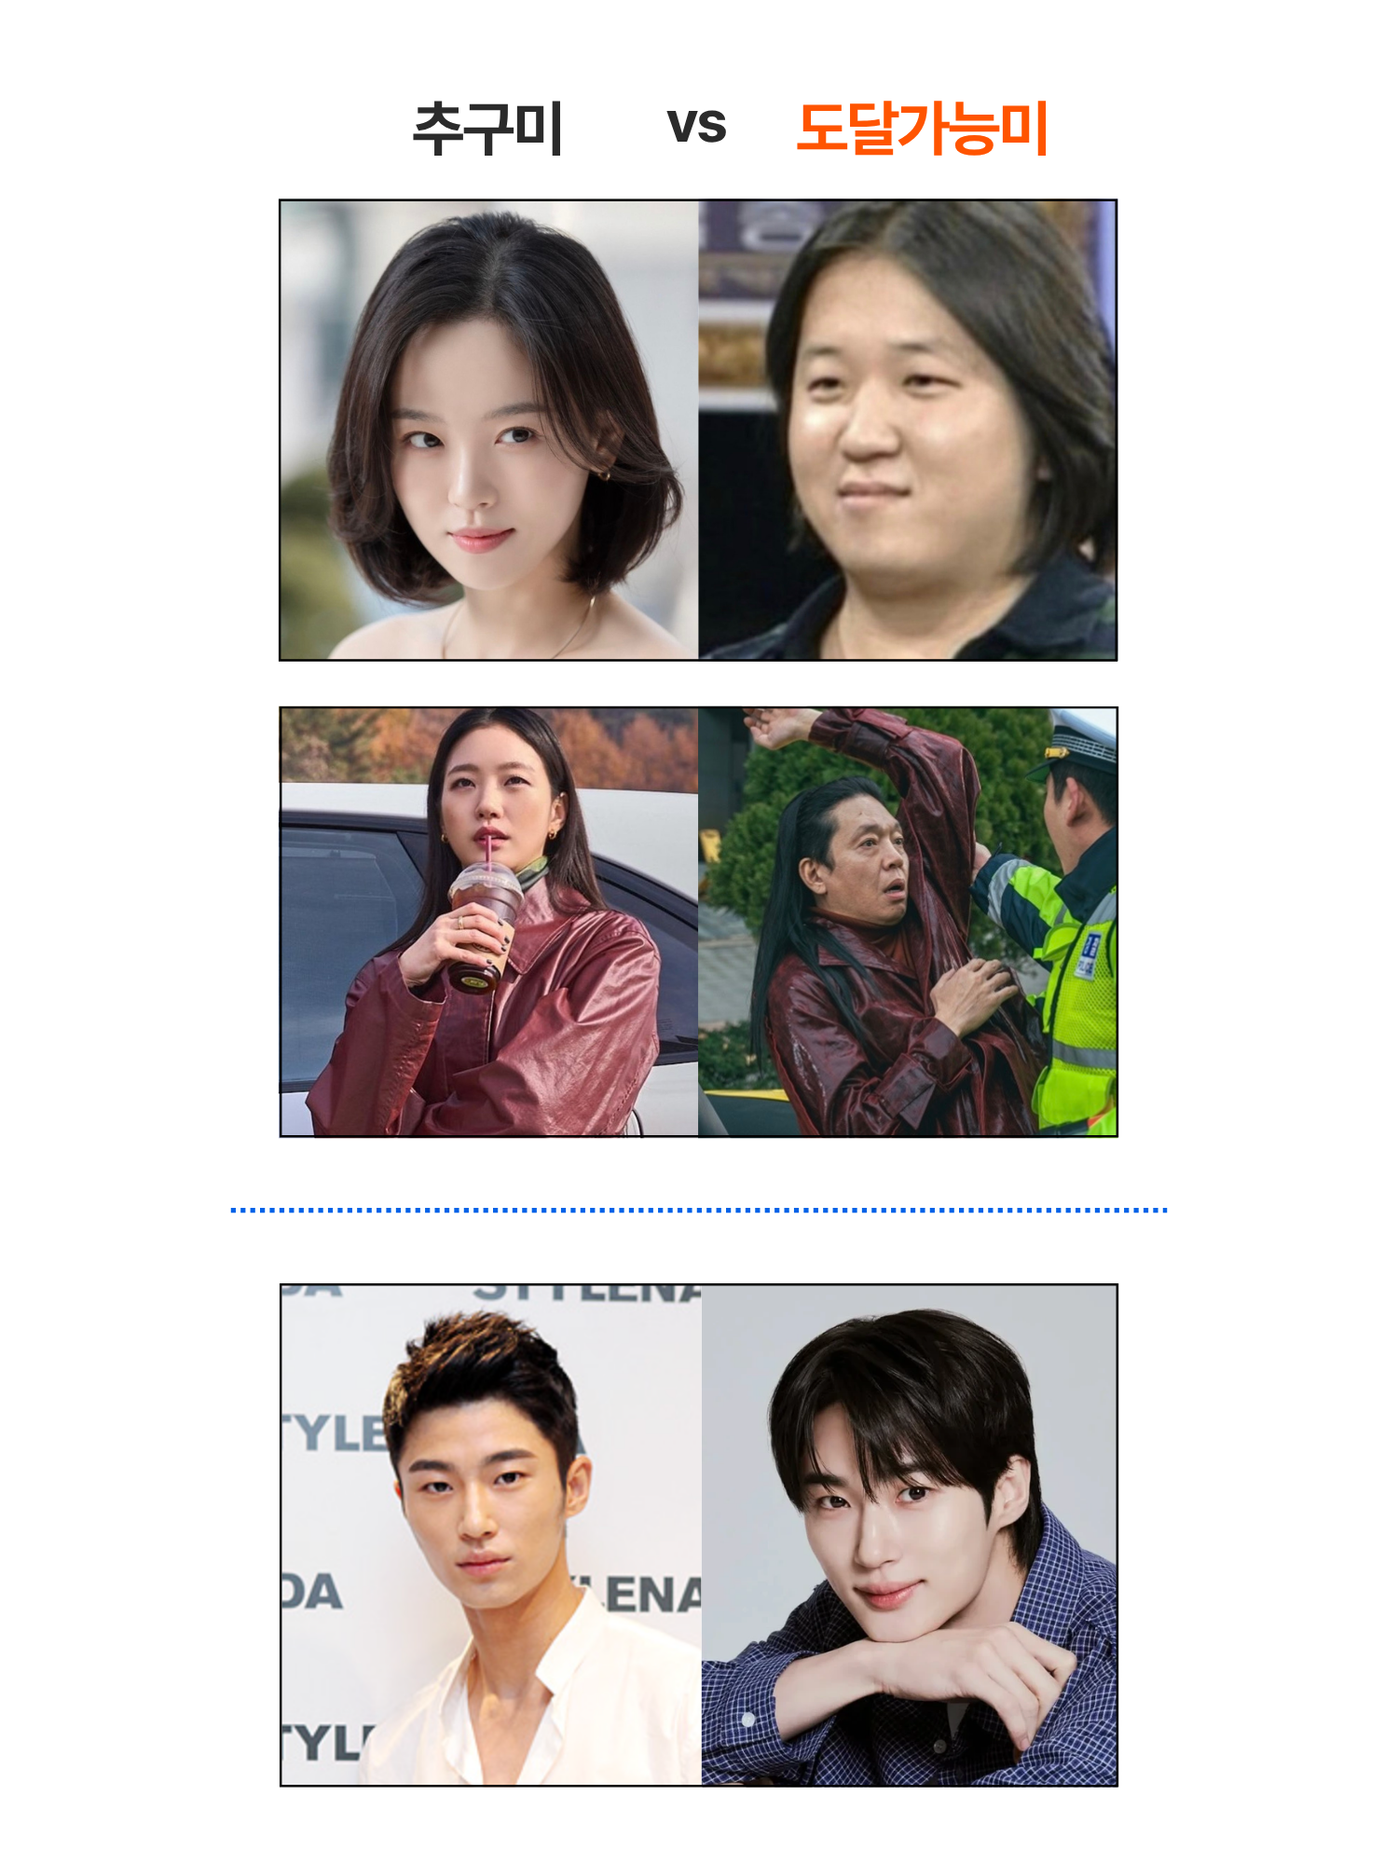
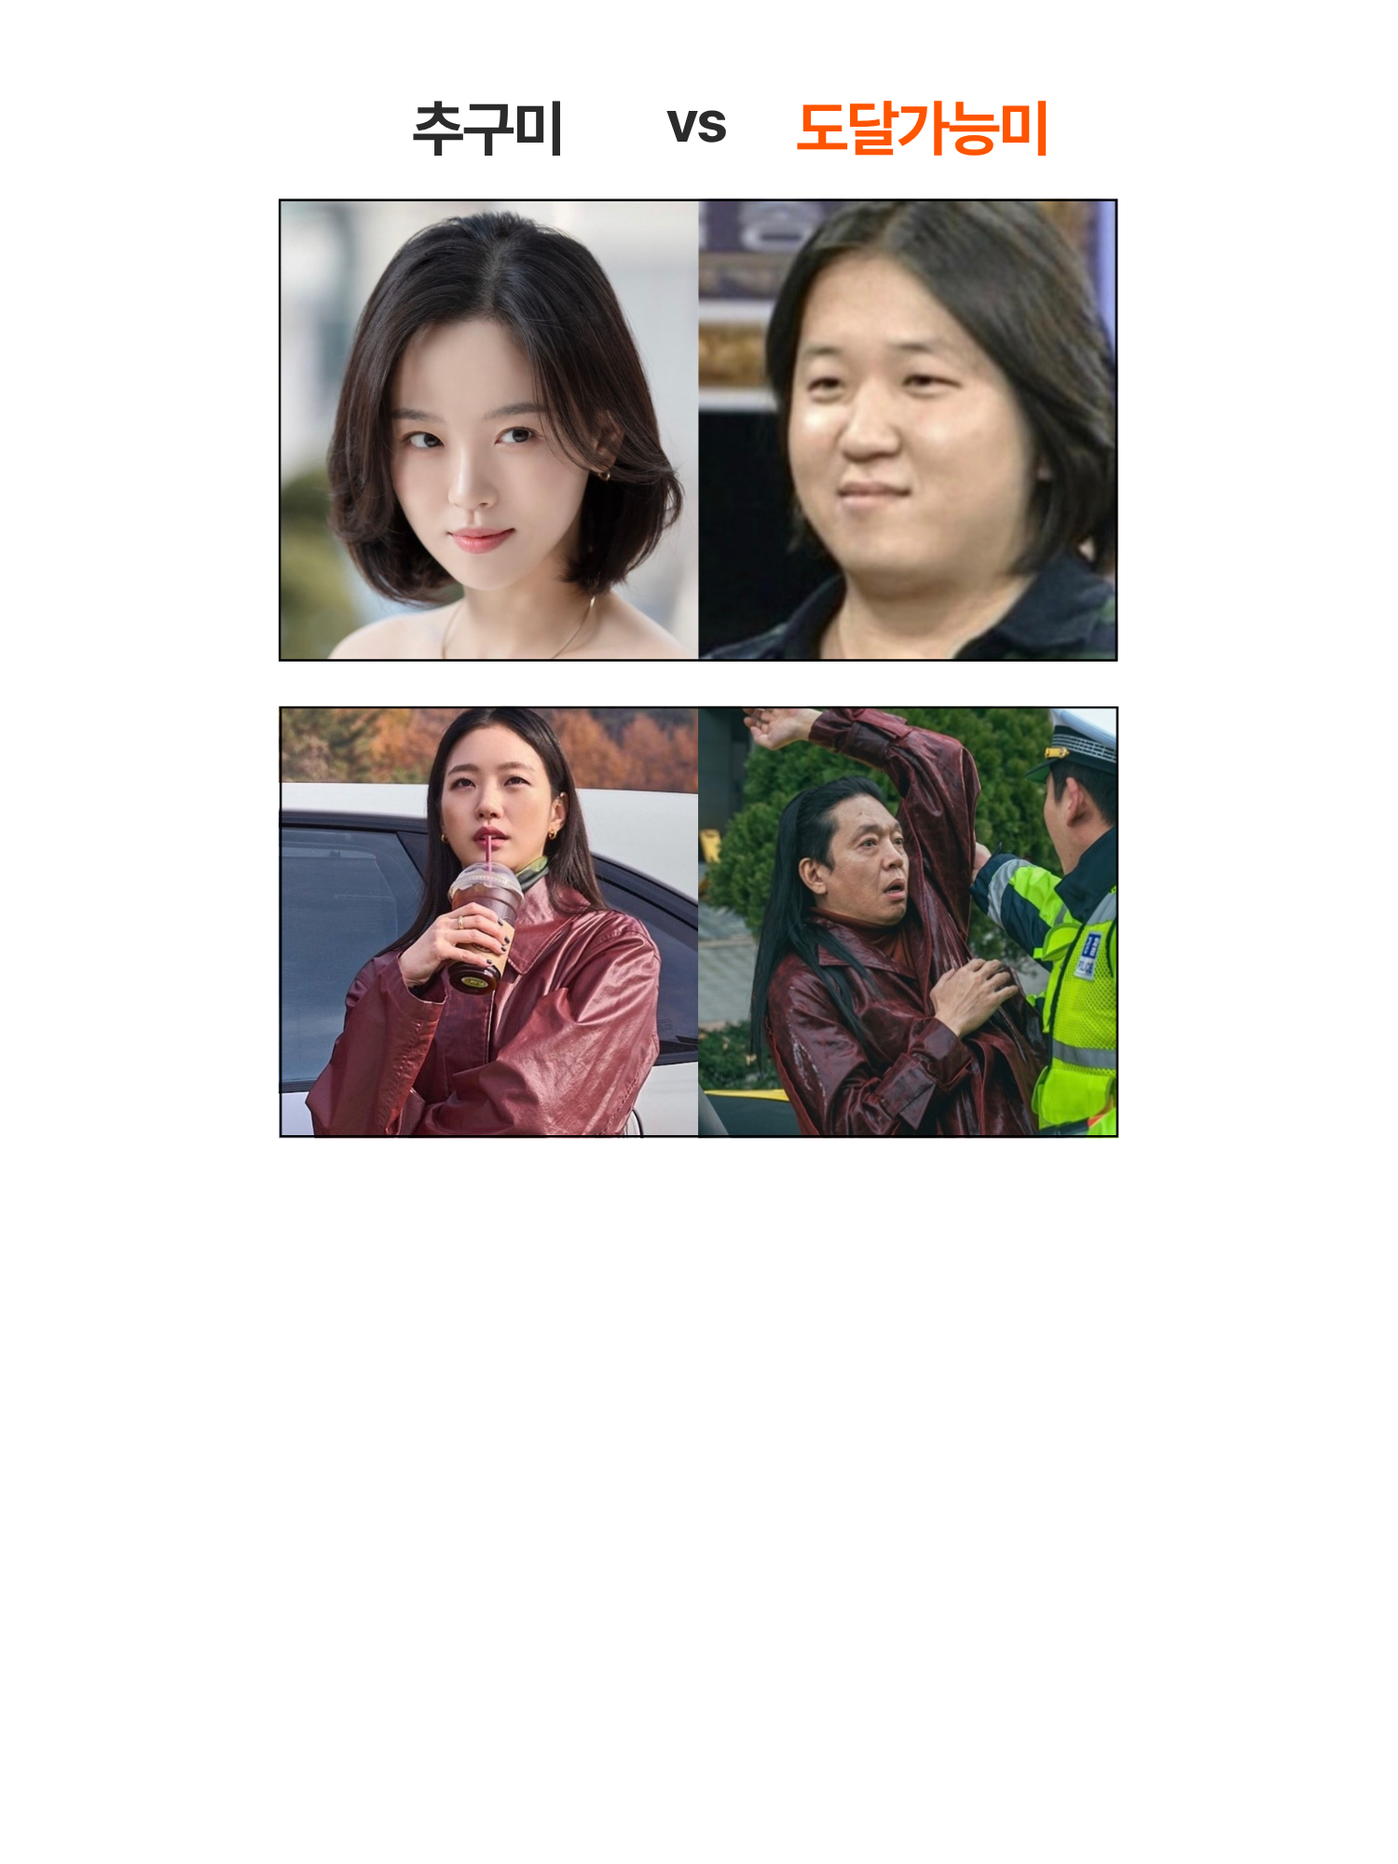
Add files via upload

Changed region(s): [[0.184, 0.682, 0.828, 0.961], [0.184, 0.837, 0.2453, 0.868], [0.184, 0.682, 0.2453, 0.713]]

diff --git a/event/index.html b/event/index.html
@@ -123,6 +123,16 @@
     .field > label{display:block;font-size:14px;font-weight:600;color:var(--ink-soft);margin-bottom:8px;}
     .req{color:var(--strike);font-weight:700;}
     .row{display:grid;grid-template-columns:1fr 1fr;gap:12px;}
+    .row--wide{grid-template-columns:1.7fr 1fr;}   /* 이름·연락처 넓게 / 나이·지역 좁게 */
+    /* 희망 시간대 칩 (중복 선택) */
+    .field .hint{font-size:12px;font-weight:500;color:var(--label);margin-left:4px;}
+    .chips{display:grid;grid-template-columns:repeat(4,1fr);gap:8px;}
+    .chip{position:relative;display:block;}
+    .chip input{position:absolute;inset:0;width:100%;height:100%;margin:0;opacity:0;cursor:pointer;}
+    .chip span{display:block;padding:12px 4px;text-align:center;font-size:15px;font-weight:600;
+      color:var(--ink);background:#fff;border:1.5px solid var(--line);border-radius:10px;
+      transition:background 120ms var(--ease),color 120ms var(--ease),border-color 120ms var(--ease);}
+    .chip input:checked + span{background:var(--ink);color:#fff;border-color:var(--ink);}
     input,select{
       width:100%;font-family:var(--font);font-size:16px;color:var(--ink);background:#fff;
       border:1.5px solid var(--line);border-radius:12px;padding:14px;
@@ -205,67 +215,50 @@
       <p class="form-sub">아래 정보를 남겨주시면 순서대로 연락드릴게요.</p>
 
       <form id="applyForm" novalidate>
-        <div class="field">
-          <label for="name">이름 <span class="req">*</span></label>
-          <input id="name" name="name" type="text" placeholder="이름" required autocomplete="name">
-        </div>
-
-        <div class="row">
+        <div class="row row--wide">
+          <div class="field">
+            <label for="name">이름 <span class="req">*</span></label>
+            <input id="name" name="name" type="text" placeholder="이름" required autocomplete="name">
+          </div>
           <div class="field">
             <label for="age">나이</label>
             <input id="age" name="age" type="number" inputmode="numeric" min="1" max="120" placeholder="나이">
           </div>
+        </div>
+
+        <div class="row row--wide">
           <div class="field">
-            <label for="gender">성별</label>
-            <select id="gender" name="gender">
-              <option value="" selected>선택</option>
-              <option value="female">여성</option>
-              <option value="male">남성</option>
-              <option value="none">선택 안 함</option>
-            </select>
+            <label for="phone">연락처 <span class="req">*</span></label>
+            <input id="phone" name="phone" type="tel" inputmode="tel" placeholder="010-0000-0000" required autocomplete="tel">
+          </div>
+          <div class="field">
+            <label for="region">지역 <span class="req">*</span></label>
+            <input id="region" name="region" type="text" placeholder="예) 강남역" required>
           </div>
         </div>
 
         <div class="field">
-          <label for="phone">연락처 <span class="req">*</span></label>
-          <input id="phone" name="phone" type="tel" inputmode="tel" placeholder="010-0000-0000" required autocomplete="tel">
-        </div>
-
-        <div class="field">
-          <label for="region">지역 <span class="req">*</span></label>
-          <input id="region" name="region" type="text" placeholder="예) 서울 강남" required>
-        </div>
-
-        <div class="field">
-          <label for="program">프로그램 <span class="req">*</span></label>
-          <select id="program" name="program" required>
-            <option value="" selected disabled>선택</option>
-            <option value="personal-color">퍼스널컬러</option>
-            <option value="body-type">골격진단</option>
-            <option value="undecided">상담 후 결정</option>
-          </select>
-        </div>
-
-        <div class="row">
-          <div class="field">
-            <label for="date">희망 일시 <span class="req">*</span></label>
-            <input id="date" name="date" type="date" required>
-          </div>
-          <div class="field">
-            <label for="time">희망 시간대</label>
-            <select id="time" name="time">
-              <option value="" selected>선택</option>
-              <option value="morning">오전</option>
-              <option value="afternoon">오후</option>
-              <option value="evening">저녁</option>
-            </select>
+          <label>희망 시간대 <span class="hint">(중복 선택 가능)</span></label>
+          <div class="chips">
+            <label class="chip"><input type="checkbox" name="time" value="11:00"><span>11:00</span></label>
+            <label class="chip"><input type="checkbox" name="time" value="12:00"><span>12:00</span></label>
+            <label class="chip"><input type="checkbox" name="time" value="13:00"><span>13:00</span></label>
+            <label class="chip"><input type="checkbox" name="time" value="14:00"><span>14:00</span></label>
+            <label class="chip"><input type="checkbox" name="time" value="15:00"><span>15:00</span></label>
+            <label class="chip"><input type="checkbox" name="time" value="16:00"><span>16:00</span></label>
+            <label class="chip"><input type="checkbox" name="time" value="17:00"><span>17:00</span></label>
+            <label class="chip"><input type="checkbox" name="time" value="18:00"><span>18:00</span></label>
+            <label class="chip"><input type="checkbox" name="time" value="19:00"><span>19:00</span></label>
+            <label class="chip"><input type="checkbox" name="time" value="20:00"><span>20:00</span></label>
+            <label class="chip"><input type="checkbox" name="time" value="21:00"><span>21:00</span></label>
+            <label class="chip"><input type="checkbox" name="time" value="22:00"><span>22:00</span></label>
           </div>
         </div>
 
         <label class="consent">
           <input type="checkbox" id="consent" name="consent" required>
           <span>개인정보 수집·이용에 동의합니다. (필수)<br>
-          수집 항목: 이름·나이·연락처·지역·성별·프로그램·희망 일시 / 목적: 이벤트 진행 및 예약 안내 / 보유: 이벤트 종료 후 파기</span>
+          이벤트 예약 안내에만 사용하며, 종료 후 파기합니다.</span>
         </label>
 
         <button class="submit" type="submit" id="submitBtn" disabled>신청 완료하기</button>
@@ -307,7 +300,9 @@
       e.preventDefault();
       if (!form.checkValidity()) { form.reportValidity(); return; }
 
-      const payload = Object.fromEntries(new FormData(form).entries());
+      const fd = new FormData(form);
+      const payload = Object.fromEntries(fd.entries());
+      payload.time = fd.getAll('time');                 // 희망 시간대(중복 선택) 배열로
       submitBtn.disabled = true;
       submitBtn.textContent = '신청 중…';
 

diff --git a/find/index.html b/find/index.html
@@ -23,7 +23,8 @@
     user-select:none;-webkit-user-select:none;
   }
   img{display:block;max-width:100%;}
-  .wrap{max-width:560px;margin:0 auto;padding:24px 22px 40px;position:relative;}
+  .wrap{max-width:820px;margin:0 auto;padding:20px 24px 20px;position:relative;
+    height:100dvh;display:flex;flex-direction:column;overflow:hidden;}
 
   /* 돌아가기 */
   .back{display:inline-flex;align-items:center;justify-content:center;width:44px;height:44px;
@@ -31,11 +32,11 @@
   .back:hover{background:rgba(0,0,0,.05);}
 
   /* 타이틀 (best 만 오렌지) */
-  .headline{font-size:40px;line-height:1.08;font-weight:800;letter-spacing:-1px;margin:2px 0 26px;}
+  .headline{font-size:40px;line-height:1.08;font-weight:800;letter-spacing:-1px;margin:2px 0 18px;}
   .headline .best{color:var(--orange);}
 
   /* 탭 (여성 / 남성) */
-  .tabs{display:grid;grid-template-columns:1fr 1fr;gap:14px;margin-bottom:26px;}
+  .tabs{display:grid;grid-template-columns:1fr 1fr;gap:14px;margin-bottom:18px;flex:none;}
   .tab{
     padding:15px 0;border:1.5px solid var(--ink);background:#fff;border-radius:6px;
     font-family:var(--font);font-size:19px;font-weight:700;color:var(--ink);cursor:pointer;
@@ -43,21 +44,12 @@
   }
   .tab.active{background:var(--tab-active);color:#fff;border-color:var(--tab-active);}
 
-  /* 그리드 3×2 */
-  .grid{display:grid;grid-template-columns:repeat(3,1fr);gap:14px;}
-  .cell{cursor:zoom-in;border:1.5px solid var(--line);border-radius:2px;overflow:hidden;background:#fff;
-    aspect-ratio:3/4;transition:transform .14s var(--ease);}
+  /* 그리드 3×2 — 남은 세로 공간을 꽉 채워 칸을 크고 길게 */
+  .grid{flex:1 1 auto;min-height:0;display:grid;grid-template-columns:repeat(3,1fr);grid-template-rows:repeat(2,1fr);gap:16px;}
+  .cell{cursor:zoom-in;border:1.5px solid var(--line);border-radius:4px;overflow:hidden;background:#fff;
+    min-height:0;transition:transform .14s var(--ease);}
   .cell:active{transform:scale(.97);}
   .cell img{width:100%;height:100%;object-fit:cover;object-position:top center;-webkit-user-drag:none;user-drag:none;pointer-events:none;}
-
-  /* 옆으로 밀어서 넘기기 힌트 */
-  .swipe-hint{
-    margin-top:30px;text-align:center;color:var(--muted);
-    font-size:15px;font-weight:600;letter-spacing:.02em;
-    animation:hintPulse 2.2s var(--ease) infinite;
-  }
-  @keyframes hintPulse{0%,100%{opacity:.55;}50%{opacity:1;}}
-  @media (prefers-reduced-motion:reduce){.swipe-hint{animation:none;}}
 
   /* ===== 확대 뷰어 (레퍼런스 형식 · 색감만 변경) ===== */
   .zoom{position:fixed;inset:0;background:rgba(17,17,17,.95);display:none;z-index:70;touch-action:none;}
@@ -93,8 +85,6 @@
     </div>
 
     <div class="grid" id="grid"></div>
-
-    <div class="swipe-hint" aria-hidden="true">← &nbsp;옆으로 밀어서 넘기기&nbsp; →</div>
   </div>
 
   <!-- 확대 오버레이 -->
@@ -197,31 +187,18 @@ document.querySelectorAll('.tab').forEach(t=>{
 });
 renderGrid();
 
-/* ===== 페이지 스와이프: 옆으로 밀어서 넘기기 (마우스 드래그 + 터치, 확대 뷰어 열림 시 무시) ===== */
+/* ===== 양옆 터치로 넘기기 (첫 페이지처럼) — 코디칸/탭/확대뷰어는 각자 동작 ===== */
 (function(){
   const zoom=document.getElementById('zoom');
   const FWD='../compare/', BACK='../?mode=kiosk';
-  const zoomOpen=()=>zoom.classList.contains('show');
-  let sx=0,sy=0,st=0,tracking=false;
-
-  /* Pointer Events = 마우스/터치/펜 통합 → 데스크톱 프리뷰에서도 드래그로 넘김 */
-  window.addEventListener('pointerdown',e=>{
-    if(zoomOpen()){tracking=false;return;}
-    sx=e.clientX; sy=e.clientY; st=Date.now(); tracking=true;
+  window.addEventListener('click',e=>{
+    if(zoom.classList.contains('show')) return;        /* 확대 중엔 무시 */
+    if(e.target.closest('.cell,.tab,.back')) return;   /* 코디칸=확대 / 탭=성별전환 / 뒤로가기=각자 동작 */
+    location.href = (e.clientX < window.innerWidth*0.26) ? BACK : FWD;  /* 좌 26% 이전 / 우 74% 다음 */
   });
-  window.addEventListener('pointerup',e=>{
-    if(!tracking||zoomOpen()){tracking=false;return;}
-    tracking=false;
-    const dx=e.clientX-sx, dy=e.clientY-sy, dt=Date.now()-st;
-    if(Math.abs(dx)>55 && Math.abs(dx)>Math.abs(dy)*1.3 && dt<1500){
-      location.href = dx<0 ? FWD : BACK;   /* 왼쪽으로 밀기 → 다음 / 오른쪽 → 이전 */
-    }
-  });
-
-  /* 운영자 리모컨/키보드 */
   window.addEventListener('keydown',e=>{
-    if(zoomOpen()) return;               /* 확대 중엔 뷰어가 좌우키 처리 */
-    if(e.key==='ArrowRight') location.href=FWD;
+    if(zoom.classList.contains('show')) return;
+    if(e.key==='ArrowRight'||e.key===' ') location.href=FWD;
     else if(e.key==='ArrowLeft') location.href=BACK;
   });
 })();

diff --git a/compare/index.html b/compare/index.html
@@ -6,6 +6,7 @@
 <title>추구미 vs 도달가능미</title>
 <link rel="stylesheet" href="https://cdn.jsdelivr.net/gh/orioncactus/pretendard@v1.3.9/dist/web/static/pretendard.css">
 <style>
+  :root{ --ease:cubic-bezier(.4,0,.2,1); }
   *{box-sizing:border-box;-webkit-tap-highlight-color:transparent;}
   html,body{margin:0;padding:0;height:100%;}
   body{
@@ -14,24 +15,69 @@
     user-select:none;-webkit-user-select:none;
     min-height:100dvh;display:flex;align-items:center;justify-content:center;overflow:hidden;
   }
-  /* 스토리 페이지와 동일: 3:4 이미지를 화면에 꽉 채워 중앙 배치 (레터박스는 흰 배경과 블렌드) */
+  /* 스토리와 동일: 3:4 이미지를 화면에 꽉 채워 중앙 배치 */
   .compare{
     width:min(100vw, calc(100dvh * 3 / 4));
     height:auto;display:block;-webkit-user-drag:none;user-drag:none;
   }
+
+  /* 탭 영역: 좌 25% 이전 · 가운데 50% 변우석 팝업 · 우 25% 다음 */
+  .zone{position:fixed;top:0;bottom:0;z-index:10;border:none;background:transparent;padding:0;margin:0;cursor:pointer;}
+  .zone-prev{left:0;width:25%;}
+  .zone-center{left:25%;width:50%;}
+  .zone-next{right:0;width:25%;}
+
+  /* 가운데 클릭 시 뜨는 변우석 팝업 */
+  .pop{
+    position:fixed;inset:0;z-index:50;display:none;
+    align-items:center;justify-content:center;padding:24px;
+    background:rgba(17,17,17,.72);cursor:pointer;
+  }
+  .pop.show{display:flex;}
+  .pop-img{
+    max-width:94vw;max-height:82dvh;width:auto;height:auto;
+    border-radius:12px;background:#fff;box-shadow:0 24px 70px rgba(0,0,0,.45);
+    -webkit-user-drag:none;user-drag:none;
+  }
+  .pop.show .pop-img{animation:popIn .22s var(--ease);}
+  @keyframes popIn{from{transform:scale(.9);opacity:0;}to{transform:scale(1);opacity:1;}}
+  .pop-close{
+    position:absolute;top:16px;right:18px;width:46px;height:46px;border-radius:50%;
+    border:none;background:rgba(255,255,255,.2);color:#fff;font-size:22px;cursor:pointer;
+    display:grid;place-items:center;
+  }
+  @media (prefers-reduced-motion:reduce){.pop.show .pop-img{animation:none;}}
 </style>
 </head>
 <body>
   <img class="compare" src="img/compare.png" alt="추구미 vs 도달가능미">
 
+  <!-- 탭 영역 -->
+  <button class="zone zone-prev" type="button" aria-label="이전"></button>
+  <button class="zone zone-center" type="button" aria-label="변우석 비교 보기"></button>
+  <button class="zone zone-next" type="button" aria-label="다음"></button>
+
+  <!-- 변우석 비교사진 팝업 -->
+  <div class="pop" id="pop" aria-hidden="true">
+    <button class="pop-close" type="button" aria-label="닫기">✕</button>
+    <img class="pop-img" src="img/byeon.png" alt="변우석 비교사진">
+  </div>
+
 <script>
-/* 옆을 터치(탭)하면 넘어감 — 좌 26% 이전 / 우 74% 다음 (스토리와 동일) */
 (function(){
   const PREV='../find/', NEXT='../mood/';
-  window.addEventListener('click',e=>{
-    location.href = (e.clientX < window.innerWidth*0.26) ? PREV : NEXT;
-  });
+  const pop=document.getElementById('pop');
+  const open=()=>pop.classList.add('show');
+  const close=()=>pop.classList.remove('show');
+
+  document.querySelector('.zone-prev').addEventListener('click',()=>location.href=PREV);
+  document.querySelector('.zone-next').addEventListener('click',()=>location.href=NEXT);
+  document.querySelector('.zone-center').addEventListener('click',open);   /* 가운데 = 변우석 팝업 */
+  pop.addEventListener('click',close);                                     /* 팝업 아무 곳이나 탭 = 닫기 */
+
   window.addEventListener('keydown',e=>{
+    if(e.key==='Escape'){ close(); return; }
+    if(pop.classList.contains('show')) return;
     if(e.key==='ArrowRight'||e.key===' ') location.href=NEXT;
     else if(e.key==='ArrowLeft') location.href=PREV;
   });

diff --git a/mood/index.html b/mood/index.html
@@ -7,32 +7,37 @@
 <link rel="stylesheet" href="https://cdn.jsdelivr.net/gh/orioncactus/pretendard@v1.3.9/dist/web/static/pretendard.css">
 <style>
   *{box-sizing:border-box;-webkit-tap-highlight-color:transparent;}
-  html,body{margin:0;padding:0;height:100%;}
+  html,body{margin:0;padding:0;}
   body{
-    font-family:'Pretendard','Apple SD Gothic Neo',sans-serif;background:#f3f3f4;
-    -webkit-font-smoothing:antialiased;overscroll-behavior:none;
+    font-family:'Pretendard','Apple SD Gothic Neo',sans-serif;background:#f6f6f6;
+    -webkit-font-smoothing:antialiased;
     user-select:none;-webkit-user-select:none;
-    min-height:100dvh;display:flex;align-items:center;justify-content:center;overflow:hidden;
+    overscroll-behavior-y:none;                 /* 위/아래 바운스 방지 */
   }
-  /* 스토리 페이지와 동일: 3:4 이미지를 화면에 꽉 채워 중앙 배치 (레터박스는 배경과 블렌드) */
-  .full{
-    width:min(100vw, calc(100dvh * 3 / 4));
-    height:auto;display:block;-webkit-user-drag:none;user-drag:none;
-  }
+  /* 13 · 14 를 크게 세로로 쌓기 (축소 없이, 넘치면 스크롤) */
+  .stack{max-width:900px;margin:0 auto;}
+  .stack img{display:block;width:100%;height:auto;-webkit-user-drag:none;user-drag:none;}
 </style>
 </head>
 <body>
-  <img class="full" src="img/mood.png" alt="Mood Reading & Mood Styling">
+  <div class="stack">
+    <img src="img/13.png" alt="Mood Reading">
+    <img src="img/14.png" alt="Reviews · Mood Styling">
+  </div>
 
 <script>
-/* 옆을 터치(탭)하면 넘어감 — 좌 26% 이전 / 우 74% 다음 (스토리와 동일) */
+/* 좌 25% 이전(compare) · 우 25% 다음(event) · 가운데는 그냥 읽기(세로 스크롤).
+   드래그(스크롤)는 넘김이 아니라 스크롤로 동작. */
 (function(){
   const PREV='../compare/', NEXT='../event/';
   window.addEventListener('click',e=>{
-    location.href = (e.clientX < window.innerWidth*0.26) ? PREV : NEXT;
+    const x=e.clientX/window.innerWidth;
+    if(x<0.25) location.href=PREV;
+    else if(x>0.75) location.href=NEXT;
+    /* 가운데(0.25~0.75)는 아무 동작 없음 → 편하게 스크롤/읽기 */
   });
   window.addEventListener('keydown',e=>{
-    if(e.key==='ArrowRight'||e.key===' ') location.href=NEXT;
+    if(e.key==='ArrowRight') location.href=NEXT;
     else if(e.key==='ArrowLeft') location.href=PREV;
   });
 })();
